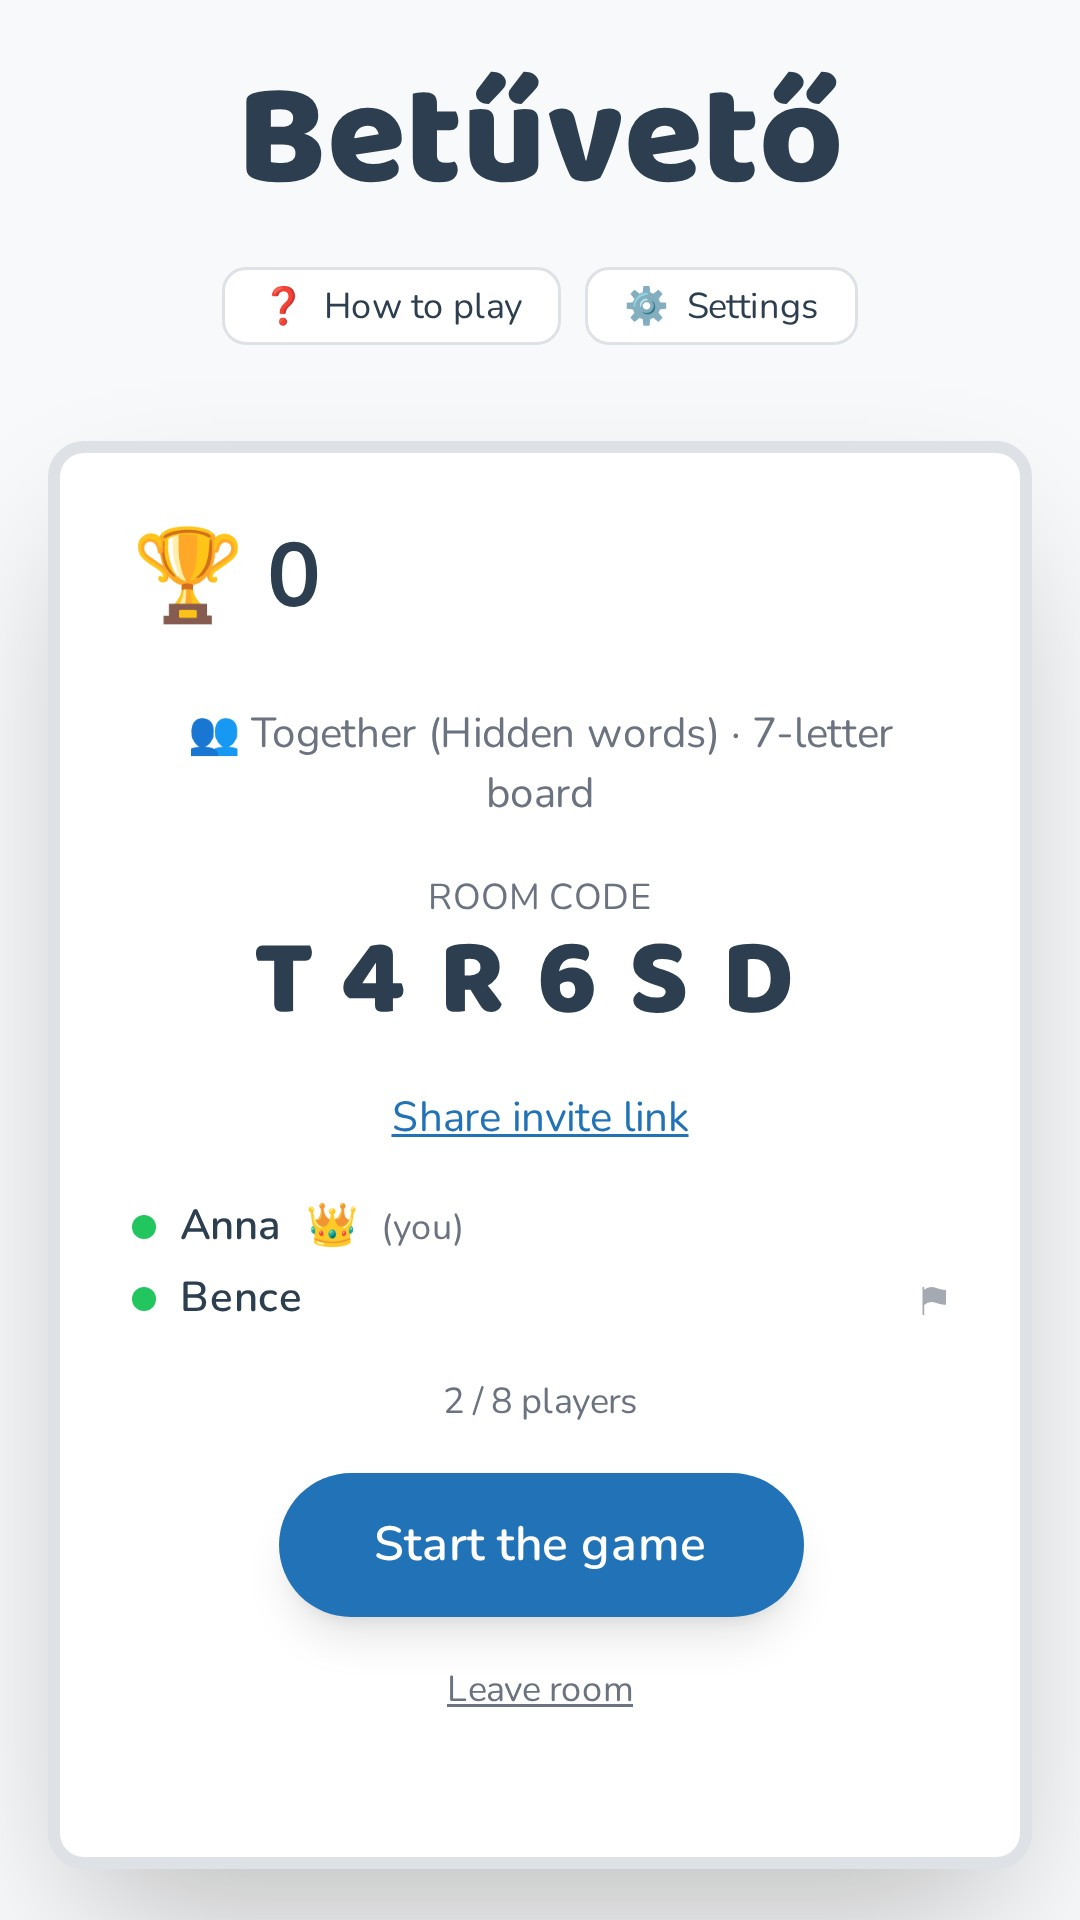
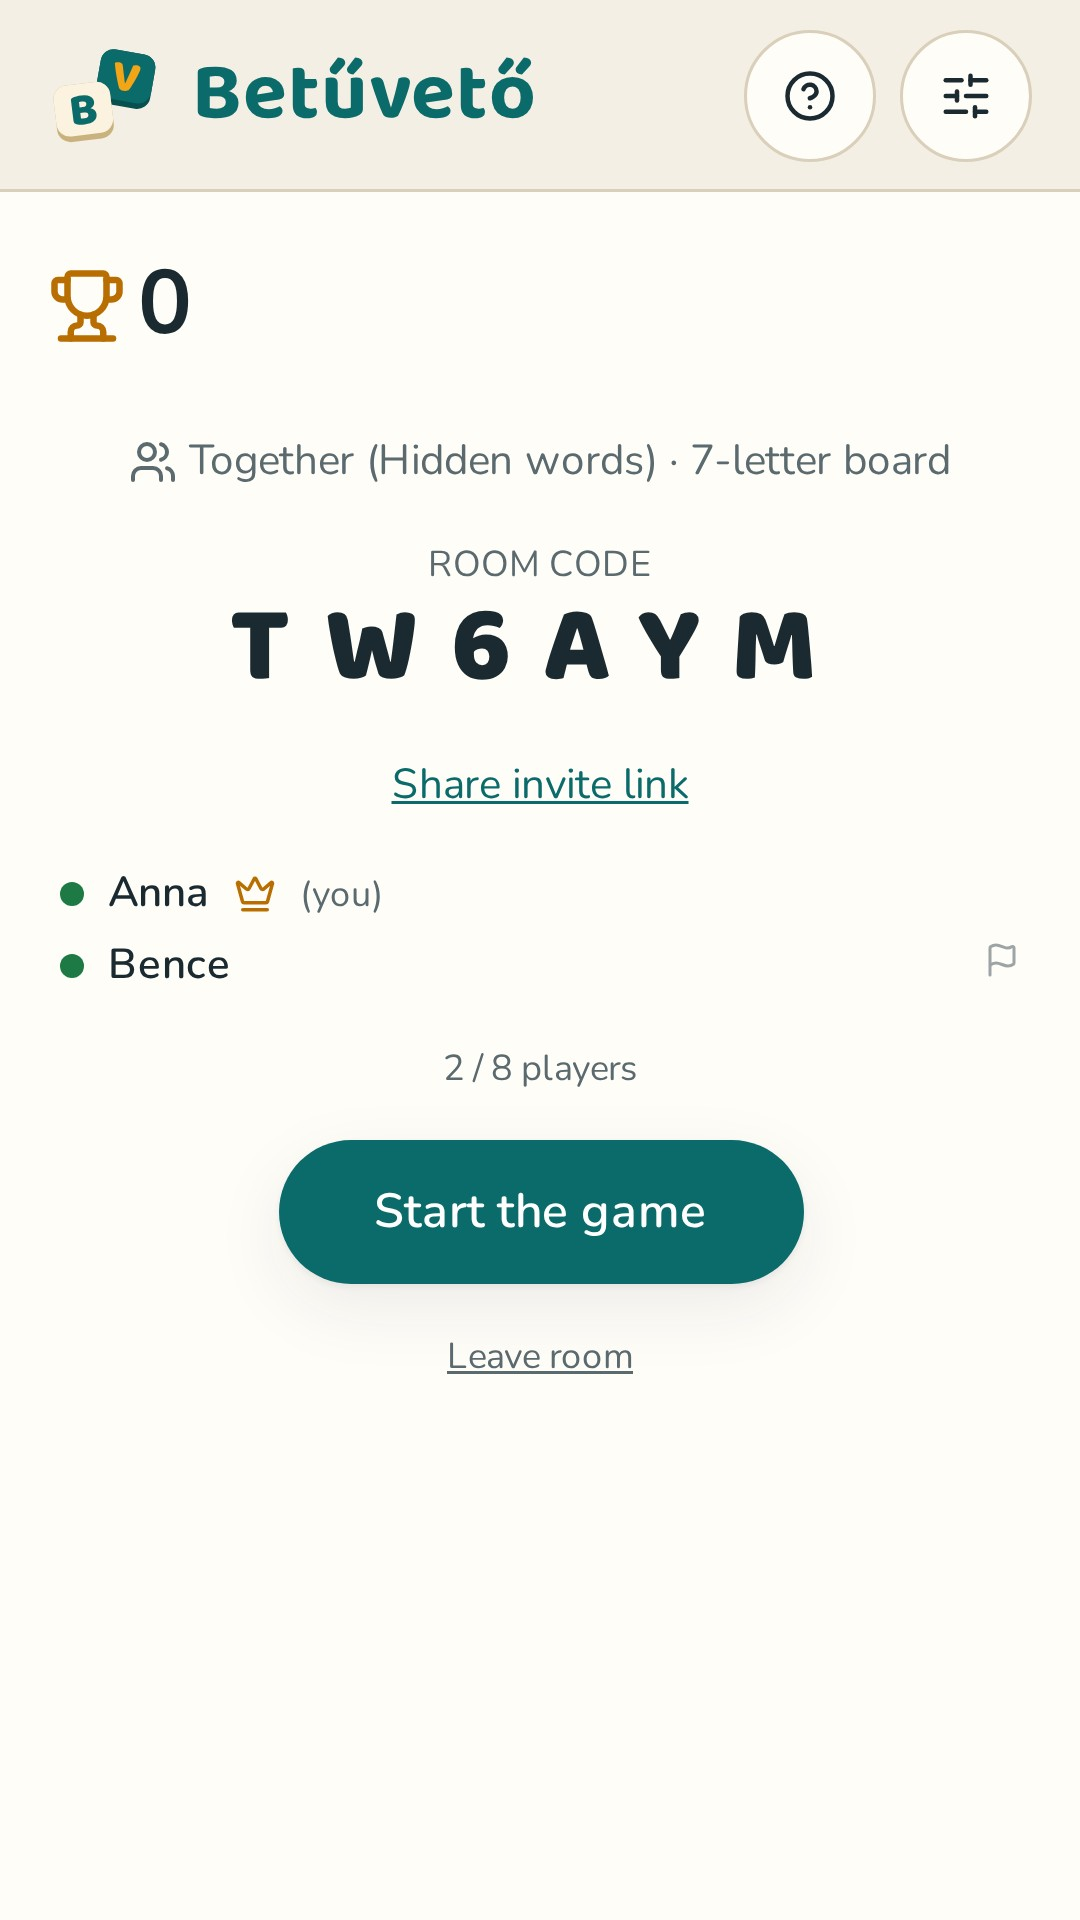
Play assets: regenerate screenshots and feature graphic in the refreshed design
Screenshots re-shot on a fresh preview (new Baloo 2 teal title). The feature graphic
now uses the app's paper/teal/saffron tokens and the bevelled letter tiles instead of
the old blue scheme. PWA manifest screenshots refreshed from the same shots.

Claude-Session: https://claude.ai/code/session_019qhHAAmyuw6u9TWxwPVQ7Y

diff --git a/docs/play-store/feature-graphic.html b/docs/play-store/feature-graphic.html
@@ -17,33 +17,39 @@
   @font-face { font-family: 'Nunito'; font-weight: 800; src: url('../../frontend/node_modules/@fontsource/nunito/files/nunito-latin-800-normal.woff2') format('woff2'); unicode-range: U+0000-00FF; }
   @font-face { font-family: 'Nunito'; font-weight: 800; src: url('../../frontend/node_modules/@fontsource/nunito/files/nunito-latin-ext-800-normal.woff2') format('woff2'); unicode-range: U+0100-024F; }
 
+  @font-face { font-family: 'Baloo 2'; font-weight: 800; src: url('../../frontend/node_modules/@fontsource/baloo-2/files/baloo-2-latin-800-normal.woff2') format('woff2'); unicode-range: U+0000-00FF; }
+  @font-face { font-family: 'Baloo 2'; font-weight: 800; src: url('../../frontend/node_modules/@fontsource/baloo-2/files/baloo-2-latin-ext-800-normal.woff2') format('woff2'); unicode-range: U+0100-024F; }
+  /* Design refresh tokens (frontend/src/index.css), 2026-11-09: paper ground, ink text,
+     the title in the button teal + Baloo 2 like the app header, tiles like the board. */
   :root {
-    --primary: #2c3e50;   /* --game-primary */
-    --accent: #2272b8;    /* --game-secondary / --game-button */
-    --paper: #f8f9fa;     /* --game-paper */
-    --tile-bg: #dbeafe;   /* the board tiles: blue-100 fill */
-    --tile-border: #93c5fd;
-    --tile-text: #1e40af;
+    --primary: #1b2a30;   /* --game-primary */
+    --accent: #0b6b6b;    /* --game-secondary / --game-button (header title) */
+    --saffron: #b86e00;   /* --game-accent */
+    --paper: #f4efe4;     /* --game-paper */
+    --tile-face: #fbf3df; /* --game-tile-face */
+    --tile-edge: #c9b27e; /* --game-tile-edge */
+    --tile-used: #e7e1d4; /* --game-tile-used */
+    --tile-used-ink: #5b6a6f;
   }
   html, body { margin: 0; }
   body {
     width: 1024px; height: 500px; overflow: hidden;
-    background: radial-gradient(ellipse at 30% 20%, #ffffff 0%, var(--paper) 55%, #e8eef5 100%);
+    background: radial-gradient(ellipse at 30% 20%, #fffdf8 0%, var(--paper) 60%, #ebe3d2 100%);
     font-family: 'Nunito', sans-serif; color: var(--primary);
     display: grid; grid-template-columns: 1fr 1fr; align-items: center;
   }
   .text { padding-left: 72px; }
-  h1 { font-family: 'Baloo 2', sans-serif; font-weight: 700; font-size: 108px; line-height: 1; margin: 0 0 18px; }
+  h1 { font-family: 'Baloo 2', sans-serif; font-weight: 700; font-size: 108px; line-height: 1; margin: 0 0 18px; color: var(--accent); }
   p { font-weight: 700; font-size: 30px; line-height: 1.3; margin: 0; color: var(--primary); opacity: .85; }
-  .tagline-2 { margin-top: 14px; font-size: 22px; color: var(--accent); font-weight: 800; opacity: 1; }
+  .tagline-2 { margin-top: 14px; font-size: 22px; color: var(--saffron); font-weight: 800; opacity: 1; }
   .board { display: grid; grid-template-columns: repeat(3, 104px); gap: 16px; justify-content: center; transform: rotate(-4deg); }
   .tile {
-    width: 104px; height: 104px; border-radius: 18px; display: grid; place-items: center;
-    background: var(--tile-bg); border: 4px solid var(--tile-border); box-sizing: border-box;
-    font-family: 'Nunito', sans-serif; font-weight: 800; font-size: 56px; color: var(--tile-text);
-    box-shadow: 0 6px 14px rgba(44, 62, 80, .15);
+    width: 104px; height: 104px; border-radius: 20px; display: grid; place-items: center;
+    background: var(--tile-face); box-sizing: border-box;
+    font-family: 'Baloo 2', sans-serif; font-weight: 800; font-size: 60px; line-height: 1; color: var(--primary);
+    box-shadow: inset 0 -7px 0 var(--tile-edge), 0 6px 14px rgba(27, 42, 48, .15);
   }
-  .tile.used { background: #d1d5db; border-color: #d1d5db; color: var(--primary); }
+  .tile.used { background: var(--tile-used); color: var(--tile-used-ink); box-shadow: none; }
   .tile:nth-child(2n) { transform: translateY(10px); }
 </style>
 </head>

diff --git a/docs/play-store.md b/docs/play-store.md
@@ -130,7 +130,7 @@ Expected result: PEGI 3 / Everyone, possibly PEGI 7 for the user-interaction ele
 Every claim above is checked against the app as of 2026-11-03 (room size `MAX_MEMBERS` = 8 in
 `lib/rooms.ts`; lengths 5–10; daily streaks; achievements). Re-check before each listing update.
 
-- **Screenshots (generated, 2026-11-03):** `docs/play-store/screenshots/{hu,en}/01–05*.jpg`,
+- **Screenshots (generated 2026-11-03, regenerated 2026-11-09 with the design refresh + new title):** `docs/play-store/screenshots/{hu,en}/01–05*.jpg`,
   1080×1920 JPEG (Play's portrait size for games; JPEG because Play rejects PNGs with alpha).
   Start screen, a game in progress, the daily puzzle, a room lobby, a room mid-game. Upload the
   hu set to the Hungarian (default) listing and the en set to the English translation.
